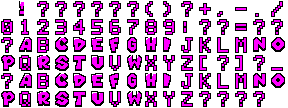
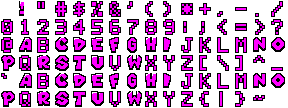
Keep controller binding labels readable and complete DS pack punctuation

diff --git a/port/tools/extract_ds_menu_pack.py b/port/tools/extract_ds_menu_pack.py
@@ -94,6 +94,25 @@ def extract(source, output):
       ']' :['111','001','001','001','001','001','111'],
       '=' :['00000','00000','11111','00000','11111','00000','00000'],
       '_' :['00000','00000','00000','00000','00000','00000','11111']}
+    patterns.update({
+      '&':['01100','10010','10100','01000','10101','10010','01101'],
+      '#':['01010','01010','11111','01010','11111','01010','01010'],
+      '%':['11001','11010','00010','00100','01000','01011','10011'],
+      '@':['01110','10001','10111','10101','10111','10000','01110'],
+      '*':['00000','10101','01110','11111','01110','10101','00000'],
+      '<':['00010','00100','01000','10000','01000','00100','00010'],
+      '>':['01000','00100','00010','00001','00010','00100','01000'],
+      '{':['0011','0100','0100','1000','0100','0100','0011'],
+      '}':['1100','0010','0010','0001','0010','0010','1100'],
+      '\\':['10000','10000','01000','00100','00010','00001','00001'],
+      "'":['010','010','100','000','000','000','000'],
+      '"':['101','101','101','000','000','000','000'],
+      ';':['000','010','010','000','010','010','100'],
+      '|':['010','010','010','010','010','010','010'],
+      '`':['100','010','000','000','000','000','000'],
+      '~':['00000','00000','01001','10110','00000','00000','00000'],
+      '$':['00100','01111','10100','01110','00101','11110','00100'],
+      '^':['00100','01010','10001','00000','00000','00000','00000']})
     extracted=''.join(sorted(glyphs))
     for char,rows in patterns.items():
         if char in glyphs:continue

diff --git a/port/hal/coop_frontend_render.h b/port/hal/coop_frontend_render.h
@@ -214,6 +214,9 @@ inline void draw(const Canvas& c, const Menu& menu, unsigned frame, const char* 
                     c.menu_button(cell.x,cell.y,cell.w,cell.h,cell_focus,2);
                     if(cell_focus)c.box(cell.x,cell.y,cell.w,1,0xff5ae1c1u);
                     const char* name=menu.control_labels[i][slot];
+                    // Pack labels stay legible without shrinking every D-pad or
+                    // Backspace entry just to repeat its device prefix.
+                    if(c.theme && (!std::strncmp(name,"KEY ",4)||!std::strncmp(name,"PAD ",4)))name+=4;
                     int text_size=size;while(text_size>1&&c.measure(name,text_size)>cell.w-6)--text_size;
                     c.text(cell.x+(cell.w-c.measure(name,text_size))/2,cell.y,name,cell_focus?0xffffffffu:0xffced9eau,text_size);
                 }
